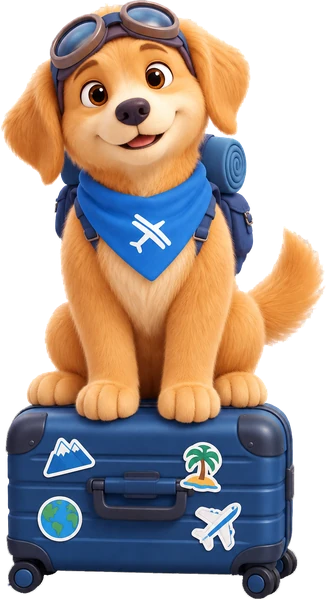
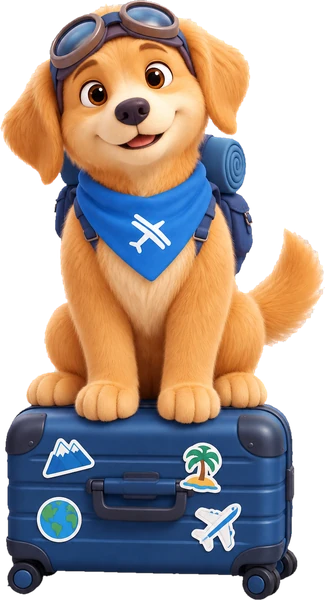
feat(TRIP-532): токены размеров иллюстраций, CreateChoicePair, чистая вырезка героя
Три токена `--art-tile / --art-state / --art-hero` (апрув Pavel) вместо
литералов в трёх владельцах — шкала под картины пустых состояний по экранам.
Пара способов создания — один элемент `CreateChoicePair`, диалог и /trips рисуют
её через него (апрув Pavel), две копии сняты. Герой `bono-ready` перевырезан:
эрозия маски 2px + снятие светлой подложки на крае, кайма на тёмной теме ушла.

Claude-Session: https://claude.ai/code/session_01Ftmr2Wzk767zB2h7XtWfUm

diff --git a/src/design/app.css b/src/design/app.css
@@ -137,6 +137,13 @@
 
   /* Radii (Lumo names + legacy aliases) */
   --r-card:24px; --r-md:16px; --r-btn:10px; --r-sm:8px; --r-xs:4px; --r-pill:999px;
+  /* Размеры иллюстраций (TRIP-532): плитка-картина карточки выбора · картина
+     пустого состояния · герой ленты. Владелец берёт ступень, <Illustration>
+     размера не знает. floor-exempt: tokens +3 — --art-tile/--art-state/--art-hero: три литерала в трёх владельцах становятся шкалой под картины пустых состояний по экранам, апрув Pavel (TRIP-532)
+     visual-diff-exempt: :root --art-tile — новый токен: плитка-картина карточки выбора (TRIP-532)
+     visual-diff-exempt: :root --art-state — новый токен: картина пустого состояния / герой на телефоне (TRIP-532)
+     visual-diff-exempt: :root --art-hero — новый токен: герой ленты /trips (TRIP-532) */
+  --art-tile: 96px; --art-state: 200px; --art-hero: 300px;
   /* Unified control radius (TRIP-149): all text fields + guests-chip + segmented
      controls derive from --r-btn directly, so every control outer shape shares
      one radius. The segment track uses it as-is; its inner buttons are
@@ -4320,7 +4327,7 @@ button.input[data-empty] { color: var(--muted-2); }
    visual-diff-exempt: .choice-card__arr transition — стрелка «→» из карточек выбора снята вместе с разметкой (Pavel, TRIP-532)
    visual-diff-exempt: .choice-card:hover transform — стрелка «→» из карточек выбора снята вместе с разметкой (Pavel, TRIP-532) */
 .choice-card--vis { gap: var(--sp-6); padding: var(--sp-6) var(--sp-7) var(--sp-6) var(--sp-6); }
-.choice-card__vis { flex: none; width: 96px; height: 96px; border-radius: var(--r-btn); background: var(--hl-soft); overflow: hidden; display: grid; place-items: center; }
+.choice-card__vis { flex: none; width: var(--art-tile); height: var(--art-tile); border-radius: var(--r-btn); background: var(--hl-soft); overflow: hidden; display: grid; place-items: center; }
 .choice-card--ai .choice-card__vis { background: var(--ai-gradient-soft); }
 .choice-card__vis img { width: 100%; height: 100%; object-fit: contain; padding: 9%; box-sizing: border-box; display: block; }
 .choice-card--col { flex-direction: column; align-items: stretch; gap: var(--sp-6); padding: var(--sp-5) var(--sp-5) var(--sp-7); }
@@ -4330,7 +4337,7 @@ button.input[data-empty] { color: var(--muted-2); }
    растянули бы окно и шторку. Ступень — у сетки, карточка про сетку не знает. */
 @media (max-width: 880px) {
   .choice-card--col { flex-direction: row; align-items: center; padding: var(--sp-6) var(--sp-7) var(--sp-6) var(--sp-6); }
-  .choice-card--col .choice-card__vis { width: 96px; height: 96px; aspect-ratio: auto; }
+  .choice-card--col .choice-card__vis { width: var(--art-tile); height: var(--art-tile); aspect-ratio: auto; }
 }
 /* Радиус 10 (--r-btn) у ПЛОТНОГО списочного варианта — планировщик (возврат,
    reverse-geo кандидаты) просил более тугой угол, чем 24 крупных навигационных
@@ -4425,7 +4432,7 @@ button.input[data-empty] { color: var(--muted-2); }
    орбы фона в сетке не участвуют. Картинка — <Illustration>, свой класс ей не
    нужен: рамку задаёт этот владелец. Подложка-«пятно» под лапами — ::before без
    z-index намеренно: она не полноразмерная и лежит под картинкой по порядку. */
-.eroute__fig { grid-column: 2; grid-row: 1; position: relative; height: 300px; display: flex; align-items: flex-end; justify-content: center; }
+.eroute__fig { grid-column: 2; grid-row: 1; position: relative; height: var(--art-hero); display: flex; align-items: flex-end; justify-content: center; }
 .eroute__fig img { position: relative; z-index: 1; height: 100%; width: auto; }
 .eroute__fig::before { content: ''; position: absolute; left: 50%; bottom: -14px; width: 118%; height: 64px; transform: translateX(-50%); border-radius: 50%; background: radial-gradient(closest-side, var(--brand-soft-12) 0, transparent 100%); }
 .eroute h3 { position: relative; z-index: 1; color: var(--ink); }
@@ -4433,7 +4440,7 @@ button.input[data-empty] { color: var(--muted-2); }
 .eroute__create { position: relative; z-index: 1; width: 100%; display: grid; grid-template-columns: 1fr 1fr; gap: 14px; }
 @media (max-width: 640px) {
   .eroute { padding: 28px 18px 24px; grid-template-columns: 1fr; text-align: center; justify-items: center; }
-  .eroute__fig { grid-column: 1; grid-row: 1; height: 170px; margin-bottom: var(--sp-7); }
+  .eroute__fig { grid-column: 1; grid-row: 1; height: var(--art-state); margin-bottom: var(--sp-7); }
   .eroute__body { grid-row: 2; }
   .eroute__create { grid-template-columns: 1fr; }
 }
@@ -10655,8 +10662,7 @@ a.doc-row__n:hover{ color: var(--brand); }
    создано» (StepReview). Дальше — свои картины у пустых состояний по экранам и одна
    дефолтная (план Pavel). Размер задаёт этот владелец, у <Illustration> класса нет. */
 .empty-state__art { margin-bottom: var(--sp-7); }
-.empty-state__art img { height: 200px; width: auto; }
-.empty-state--boxed .empty-state__art img { height: 120px; }
+.empty-state__art img { height: var(--art-state); width: auto; }
 .empty-state__t { color: var(--ink); margin-bottom: 6px; }
 .empty-state__b { max-width: 340px; }
 /* Действий может быть два (открыть трип / вернуться к списку) - раньше такая

diff --git a/src/components/create/CreateTripProvider.jsx b/src/components/create/CreateTripProvider.jsx
@@ -99,6 +99,22 @@ export function ChoiceCard({ variant = 'man', icon, title, sub, onClick, art, co
   );
 }
 
+// ─── Пара способов создания (TRIP-532) ────────────────────────────────────────
+// ЕДИНСТВЕННОЕ место, где живут два способа: их ключи, картины и порядок. Диалог
+// и пустой экран /trips рисуют одну и ту же пару, отличие — только раскладка
+// (`col`), которую задаёт вызыватель вместе с сеткой. Две копии молча
+// разъезжались бы при первой правке (апрув Pavel на общий элемент).
+/** @param {{ col?: boolean, onManual: () => void, onAi: () => void }} p */
+export function CreateChoicePair({ col, onManual, onAi }) {
+  const { t } = useI18n();
+  return (
+    <>
+      <ChoiceCard variant="man" art="create-manual" col={col} title={t('trips.start_manual')} sub={t('trips.manual_desc_short')} onClick={onManual} />
+      <ChoiceCard variant="ai" art="create-ai" col={col} title={t('trips.start_with_ai')} sub={t('trips.ai_desc_short')} onClick={onAi} />
+    </>
+  );
+}
+
 // ─── New Trip Dialog (manual / AI choice) ─────────────────────────────────────
 function NewTripDialog({ onClose, onManual, onAi }) {
   const { t } = useI18n();
@@ -116,8 +132,7 @@ function NewTripDialog({ onClose, onManual, onAi }) {
           своя ступень «одна колонка ≤880», карточка про сетку не знает и на той же
           ступени возвращается к строке (`.choice-card--col`, app.css). */}
       <div className="grid grid--split grid--g6">
-        <ChoiceCard variant="man" art="create-manual" col title={t('trips.start_manual')} sub={t('trips.manual_desc_short')} onClick={onManual} />
-        <ChoiceCard variant="ai" art="create-ai" col title={t('trips.start_with_ai')} sub={t('trips.ai_desc_short')} onClick={onAi} />
+        <CreateChoicePair col onManual={onManual} onAi={onAi} />
       </div>
     </Dialog>
   );

diff --git a/src/pages/Trips.jsx b/src/pages/Trips.jsx
@@ -35,7 +35,7 @@ import {
 import { useConfirm } from '@/components/common/ConfirmProvider';
 import { track } from '@/lib/analytics';
 
-import { useCreateTrip, ChoiceCard } from '@/components/create/CreateTripProvider';
+import { useCreateTrip, CreateChoicePair } from '@/components/create/CreateTripProvider';
 import { useActiveTripsLimit } from '@/hooks/useActiveTripsLimit';
 import AppHeader from '@/components/AppHeader';
 
@@ -439,8 +439,7 @@ function EmptyRoute({ onManual, onAi }) {
         <h3>{t('trips.empty_heading')}</h3>
         <p>{t('trips.empty_route_sub')}</p>
         <div className="eroute__create">
-          <ChoiceCard variant="man" art="create-manual" title={t('trips.start_manual')} sub={t('trips.manual_desc_short')} onClick={onManual} />
-          <ChoiceCard variant="ai" art="create-ai" title={t('trips.start_with_ai')} sub={t('trips.ai_desc_short')} onClick={onAi} />
+          <CreateChoicePair onManual={onManual} onAi={onAi} />
         </div>
       </div>
     </Card>

diff --git a/src/design/illustrations.js b/src/design/illustrations.js
@@ -21,7 +21,7 @@ export const ILLUSTRATIONS = Object.freeze({
   /** Выбор способа: «Начать с Triplanio» — сообщение и ответ Боно с черновиком маршрута. */
   'create-ai':     { src: '/images/create-ai.webp',     w: 384, h: 384 },
   /** Герой пустого экрана «Мои путешествия»: Боно на чемодане, «собрался, жду». */
-  'bono-ready':    { src: '/images/bono-ready.webp',    w: 326, h: 600 },
+  'bono-ready':    { src: '/images/bono-ready.webp',    w: 325, h: 600 },
   /** Экран «Путешествие создано» (StepReview): Боно машет лапой, чемодан с галочкой. */
   'trip-created':  { src: '/images/trip-created.webp',  w: 480, h: 480 },
 });

diff --git a/memory/triplanio-illustrations-registry.md b/memory/triplanio-illustrations-registry.md
@@ -1,8 +1,9 @@
 # Иллюстрации и маскот Боно в приложении (TRIP-532)
 
 ## Как это устроено сейчас
-- **Реестр** `src/design/illustrations.js`: одно место с путём и собственными размерами каждой картинки. Файлы — `public/images/<что-где>.webp` (WebP с альфой, 2× плотность: плитки 384², герой 326×600). Имя по смыслу (`create-ai`), не по типу: в папке живут и маскот, и предметные сцены, и их комбинации (в `create-ai` Боно запечён как аватар ответа).
+- **Реестр** `src/design/illustrations.js`: одно место с путём и собственными размерами каждой картинки. Файлы — `public/images/<что-где>.webp` (WebP с альфой, 2× плотность: плитки 384², герой 325×600). Имя по смыслу (`create-ai`), не по типу: в папке живут и маскот, и предметные сцены, и их комбинации (в `create-ai` Боно запечён как аватар ответа).
 - **Примитив** `<Illustration name="…" />` (`src/design/Illustration.jsx`, экспорт из `index`): `<img width height alt="" decoding="async">`, без `loading="lazy"` (все потребители над сгибом) и без `className`/`style`. **Своего класса нет намеренно** — размер, рамку и подложку задаёт владелец (`.choice-card__vis img`, `.eroute__fig img`), как у иконки; иначе у картинки появился бы второй голос в раскладке и вызыватели чинили бы его инлайном. Ноль новых namespace.
+- **Токены размеров** `--art-tile: 96px` · `--art-state: 200px` · `--art-hero: 300px` (`:root`, апрув Pavel): владелец берёт ступень, примитив размера не знает. Пара способов создания — один элемент `CreateChoicePair({ col, onManual, onAi })` в `CreateTripProvider.jsx`, диалог и `/trips` рисуют её через него.
 - **Тест** `src/design/illustrations.test.js` пинит три молчаливых дрейфа: файл существует; `w/h` записи = размеру файла из заголовка WebP; каждый литерал `name="…"` в `src/**` есть в реестре (неизвестное имя рендерит `null` без предупреждения).
 - **ChoiceCard** (`CreateTripProvider.jsx`): проп `art` → плитка-картина `.choice-card__vis` (квадрат 96 на всех ширинах) вместо плитки-иконки; `col` → колонка для пары «две рядом» в диалоге на канон-сетке `.grid grid--split grid--g6`: у неё своя ступень «один столбец ≤880», и карточка на той же ступени возвращается к строке — про сетку она не знает.
 - **EmptyState** получил проп `art` (картина из реестра вместо плитки-иконки, `icon` — фолбэк, размер задаёт `.empty-state__art img`). Первый потребитель — «Путешествие создано» (`ManualPlanner`, `trip-created`). План Pavel: у пустых состояний по экранам свои картины + одна дефолтная — всё через этот проп, без второго примитива.
@@ -15,7 +16,7 @@
 - Поза героя без направления (сидит на чемодане, смотрит на зрителя): на десктопе он справа от карточек, на телефоне над ними, жест «в сторону» указывал бы в пустоту.
 
 ## Ловушки
-- Генератор может **нарисовать «шахматку» в пикселях** вместо альфы (так пришёл `bono-ready`): PNG без альфа-канала, выбит по цвету (нейтральные светлые пиксели от рамки). Проверять `ct` заголовка PNG, не глазами.
+- Генератор может **нарисовать «шахматку» в пикселях** вместо альфы (так пришёл `bono-ready`): PNG без альфа-канала, выбит по цвету (нейтральные светлые пиксели от рамки) + эрозия маски на 2px и снятие светлой подложки на крае, иначе на тёмной теме остаётся светлая кайма. Проверять `ct` заголовка PNG, не глазами.
 - Картинка со своей запечённой тенью/фоном на тёмной теме = стикер. Правило: фон и тень отдаёт поверхность-владелец.
 - Плитка и картинка должны быть одной пропорции: квадрат в 124×88 «облизывал» высоту и стоял с полями.
 - Исходники PNG и промпты — в `Triplanio design new/`, не в репо.
